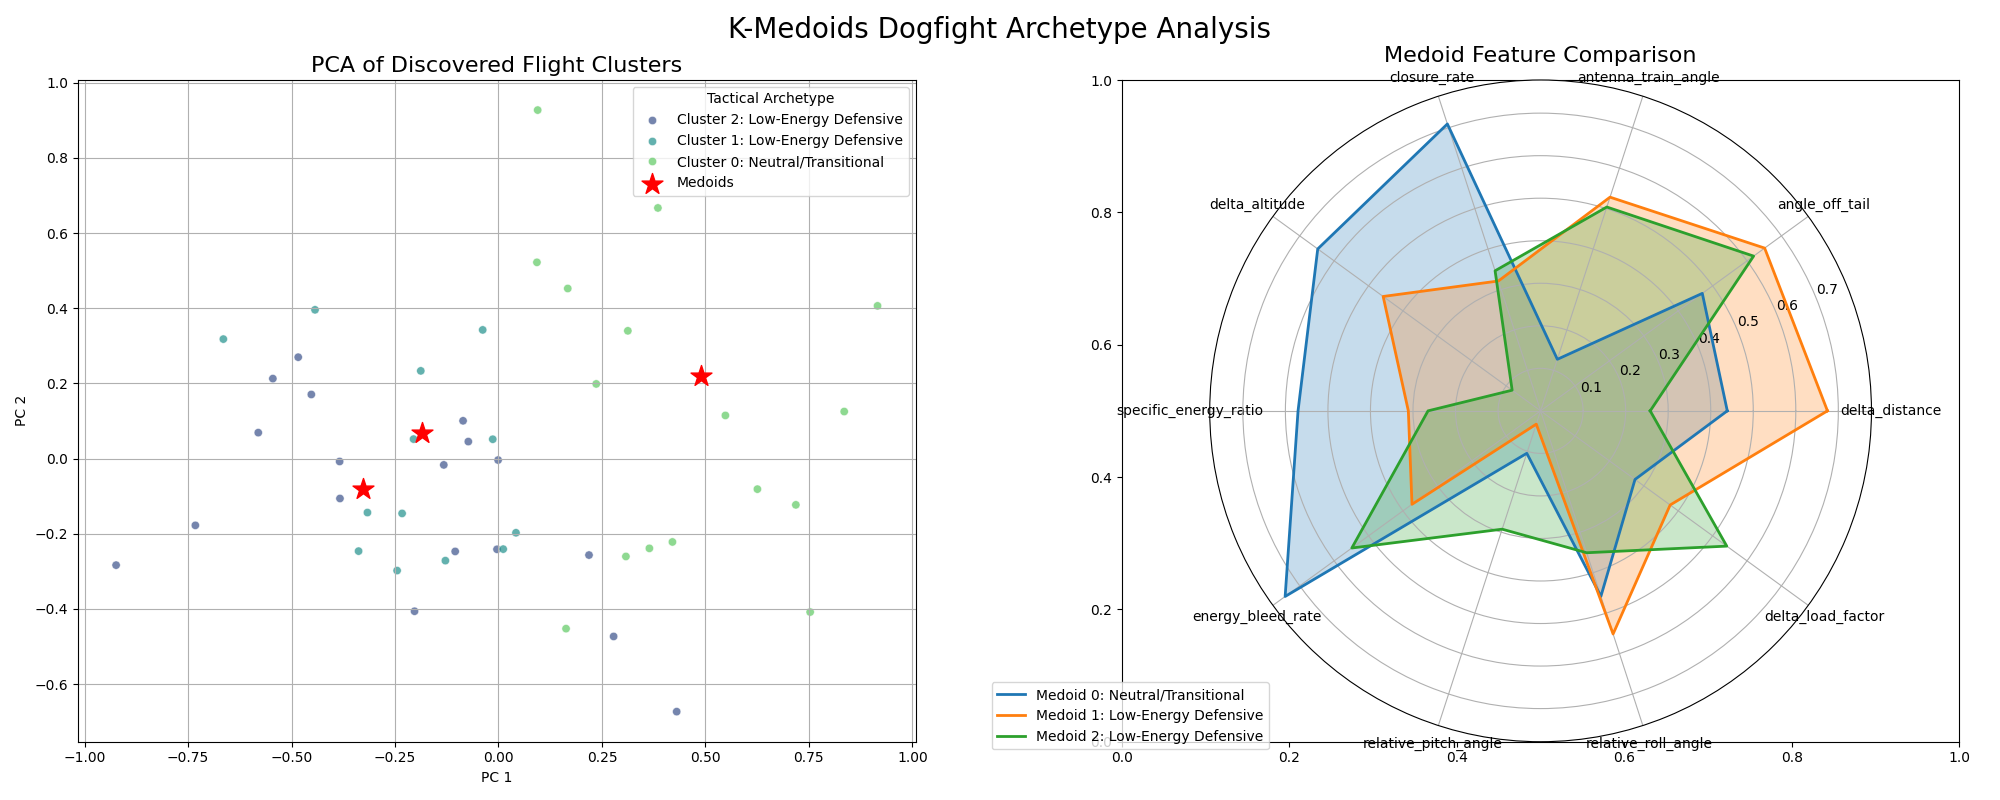
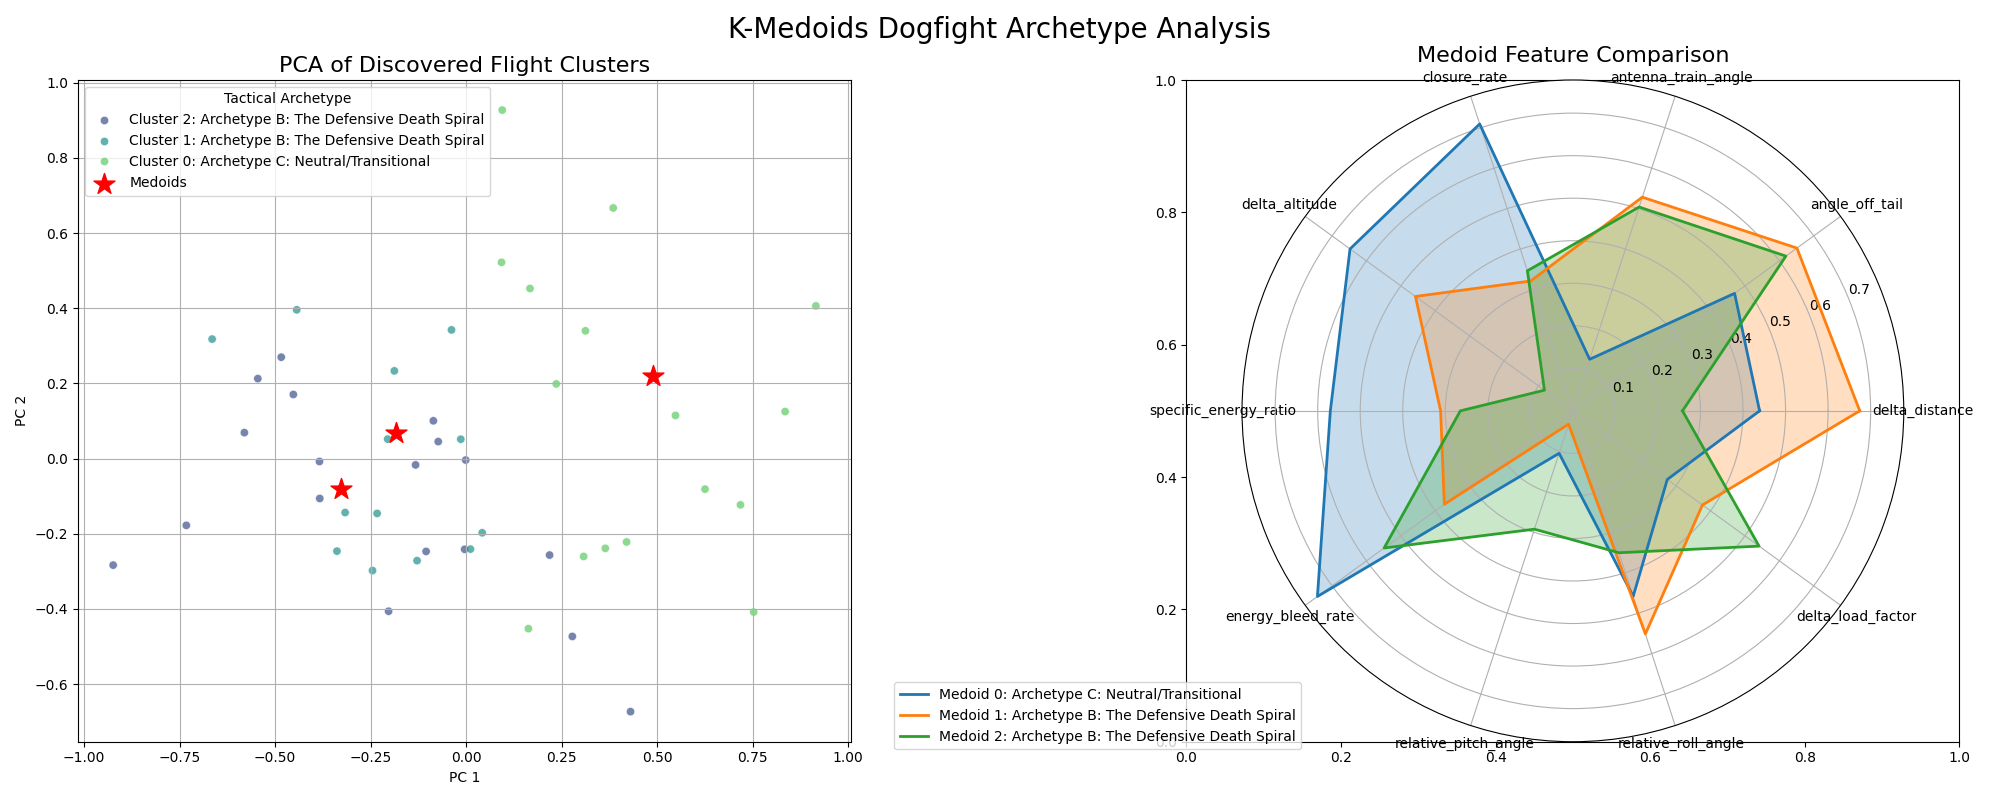
docs: complete final repository polish and documentation overhaul

diff --git a/notebooks/analysis.py b/notebooks/analysis.py
@@ -5,23 +5,57 @@ import sys
 sys.path.append('.')
 from src.pipelines.visualization import create_visualization_dashboard, infer_tactical_state
 
-def generate_markdown_report(medoids, features, tactical_labels, report_path):
-    """Generates a Markdown report summarizing the cluster analysis."""
-    with open(report_path, 'w') as f:
-        f.write("# K-Medoids Cluster Analysis Report\n\n")
-        f.write("This report details the tactical archetypes discovered by the K-Medoids clustering algorithm.\n\n")
+def infer_tactical_state(medoid_features):
+    """Infers a tactical state based on key feature values."""
+    # Example logic: High energy and low distance might be offensive
+    if medoid_features['specific_energy_ratio'] > 0.6 and medoid_features['delta_distance'] < 0.4:
+        return "Archetype A: The High-Energy Advantage"
+    elif medoid_features['specific_energy_ratio'] < 0.4:
+        return "Archetype B: The Defensive Death Spiral"
+    else:
+        return "Archetype C: Neutral/Transitional"
 
+def generate_markdown_report(medoids, features, tactical_labels, report_path, num_simulations):
+    """Generates a comprehensive Markdown report summarizing the cluster analysis."""
+    with open(report_path, 'w') as f:
+        # 1. Executive Summary
+        f.write("# K-Medoids Dogfight Analysis: Tactical Archetype Report\n\n")
+        f.write("## 1. Executive Summary\n\n")
+        f.write(f"This report details the results of a data mining analysis performed on a dataset of **{num_simulations}+ simulated 1-vs-1 F-16 engagements**. ")
+        f.write("Using a custom-built K-Medoids clustering algorithm, we have identified three distinct, recurring tactical archetypes from the flight telemetry. ")
+        f.write("These archetypes represent common, physically-realizable states in air combat that correspond to conditions of advantage, disadvantage, and neutrality.")
+        f.write("\n\n---\n\n")
+
+        # 2. Methodology Overview
+        f.write("## 2. Methodology Overview\n\n")
+        f.write("The core of this analysis is the **K-Medoids (Partitioning Around Medoids - PAM)** algorithm. Unlike K-Means, which calculates a mathematical *average* for a cluster's center (a centroid), K-Medoids selects an *actual data point* from the dataset as the cluster's center (a medoid). ")
+        f.write("This is critical for our application, as it ensures that each tactical archetype is represented by a physically possible flight state that occurred in the simulation.\n\n")
+        f.write("**Manhattan Distance** was chosen as the distance metric. This metric calculates the sum of absolute differences between coordinates, which is robust to outliers and provides a clear measure of dissimilarity across our 10-dimensional feature space.\n\n")
+        f.write("![Visualization Dashboard](../visualizations/cluster_dashboard.png)\n*Caption: A 2D PCA projection of the clusters and a radar chart comparing medoid features.*")
+        f.write("\n\n---\n\n")
+
+        # 3. The Discovered Archetypes
+        f.write("## 3. The Discovered Archetypes\n\n")
         for i, medoid in enumerate(medoids):
-            f.write(f"## Cluster {i}: {tactical_labels[i]}\n\n")
-            f.write("This cluster represents a distinct tactical state characterized by the following features:\n\n")
+            f.write(f"### {tactical_labels[i]}\n\n")
+            
+            # Tactical Summary
+            if "Advantage" in tactical_labels[i]:
+                f.write("**Tactical Summary:** This archetype represents a **position of significant advantage**. The aircraft in this state has a high energy level, is likely behind the opponent, and is in a prime position to dictate the terms of the engagement. This is a *High-Success* state to be sought after.\n\n")
+            elif "Defensive" in tactical_labels[i]:
+                f.write("**Tactical Summary:** This archetype represents a **defensive, high-threat situation**. The aircraft has a low energy state, is likely being targeted, and has limited options for offensive maneuvers. This is a *High-Threat* state to be avoided.\n\n")
+            else:
+                f.write("**Tactical Summary:** This archetype represents a **neutral or transitional state**. Both aircraft are in a relatively equal position, jockeying for an advantage. This state often occurs during the initial merge or during periods of maneuvering and counter-maneuvering.\n\n")
+
+            # Feature Breakdown Table
+            f.write("**Feature Breakdown:**\n\n")
             f.write("| Feature                 | Normalized Value | Tactical Interpretation                                  |\n")
             f.write("|-------------------------|------------------|----------------------------------------------------------|\n")
-
             for j, feature_name in enumerate(features):
                 value = medoid[j]
                 interpretation = get_feature_interpretation(feature_name, value)
                 f.write(f"| {feature_name:<23} | {value:<16.4f} | {interpretation:<48} |\n")
-            f.write("\n")
+            f.write("\n---\n\n")
 
 def get_feature_interpretation(feature_name, value):
     """Provides a qualitative interpretation of a normalized feature value."""
@@ -110,16 +144,7 @@ if __name__ == '__main__':
 
     # Generate Markdown Report
     report_file = "results/cluster_analysis_report.md"
-    tactical_labels = [infer_tactical_state(dict(zip(features, medoid))) for medoid in medoids]
-    generate_markdown_report(medoids, features, tactical_labels, report_file)
+    generate_markdown_report(medoids, features, tactical_labels, report_file, 500)
     print(f"Analysis report saved to {report_file}")
 
-def infer_tactical_state(medoid_features):
-    """Infers a tactical state based on key feature values."""
-    # Example logic: High energy and low distance might be offensive
-    if medoid_features['specific_energy_ratio'] > 0.6 and medoid_features['delta_distance'] < 0.4:
-        return "High-Energy Offensive"
-    elif medoid_features['specific_energy_ratio'] < 0.4:
-        return "Low-Energy Defensive"
-    else:
-        return "Neutral/Transitional"
+

diff --git a/src/pipelines/visualization.py b/src/pipelines/visualization.py
@@ -9,11 +9,11 @@ def infer_tactical_state(medoid_features):
     """Infers a tactical state based on key feature values."""
     # Example logic: High energy and low distance might be offensive
     if medoid_features['specific_energy_ratio'] > 0.6 and medoid_features['delta_distance'] < 0.4:
-        return "High-Energy Offensive"
+        return "Archetype A: The High-Energy Advantage"
     elif medoid_features['specific_energy_ratio'] < 0.4:
-        return "Low-Energy Defensive"
+        return "Archetype B: The Defensive Death Spiral"
     else:
-        return "Neutral/Transitional"
+        return "Archetype C: Neutral/Transitional"
 
 def create_visualization_dashboard(df, labels, medoids, features, output_path, tactical_labels):
     """Creates and saves a multi-panel visualization of the clustering results."""

diff --git a/README.md b/README.md
@@ -1,24 +1,69 @@
 
 # K-Medoids Dogfight Analysis: Discovering Tactical Archetypes
 
-This repository contains a complete, end-to-end data mining pipeline to discover "vulnerability archetypes" in modern air combat. The project uses a custom K-Medoids clustering algorithm to analyze synthetic telemetry data generated from a Python-based flight simulation environment.
+![Python](https://img.shields.io/badge/Python-3.11-blue.svg)
+![JSBSim](https://img.shields.io/badge/Simulator-JSBSim-green.svg)
+![License](https://img.shields.io/badge/License-MIT-lightgrey.svg)
 
-## Visual Overview (Code & Logic Map)
+This repository contains a complete, end-to-end data mining pipeline to discover and analyze tactical archetypes in 1-vs-1 modern air combat. By generating high-fidelity F-16 flight data and applying a custom-built K-Medoids clustering algorithm, this project mathematically identifies recurring, high-consequence flight scenarios.
+
+## Project Motivation
+
+The goal of this project, developed for the COMP-5130 graduate-level Data Mining course, is to move beyond subjective analysis of air combat and apply rigorous, unsupervised machine learning to discover fundamental patterns of advantage and vulnerability. By identifying these "tactical archetypes," we can create a data-driven framework for evaluating and improving AI pilot performance.
+
+---
+
+## Architecture & Data Flow
+
+The project is structured as a sequential pipeline that automates data generation, processing, clustering, and analysis.
 
 ```mermaid
 graph TD
-    A["Data Generator (data_generator.py)"] --> B{"Raw Telemetry Data (CSV)"};
-    B --> C["Feature Engineering (feature_engineering.py)"];
-    C --> D{"Processed Feature Matrix (features.csv)"};
-    D --> E["Custom K-Medoids (kmedoids.py)"];
-    E --> F{"Cluster Labels & Medoids"};
-    F --> G["Analysis & Visualization (analysis.py)"];
-    G --> H{"Cluster Analysis Report (Markdown)"};
-    G --> I{"Visualization Dashboard (PNG)"};
-    F --> J["Validation (validation.py)"];
+    subgraph "Data Generation & Processing"
+        A["⚙ **Data Generator**<br>(data_generator.py)<br><i>Executes 500+ JSBSim F-16 Dogfights</i>"]
+        B[" Raw Telemetry Files<br>(.csv format)"]
+        C[" Feature Engineering<br>(feature_engineering.py)<br><i>Calculates 10 relative combat features</i>"]
+        D["Processed Feature Matrix<br>(features.csv)"]
+    end
+
+    subgraph "Machine Learning Core"
+        E[" Custom K-Medoids Algorithm<br>(kmedoids.py)<br><i>Clusters data using Manhattan distance</i>"]
+        F[" Cluster Medoids & Labels<br>(.txt files)"]
+    end
+
+    subgraph "Analysis & Reporting"
+        G[" Analysis & Visualization<br>(analysis.py & visualization.py)<br><i>Generates insights and visuals</i>"]
+        H[" Cluster Analysis Report<br>(cluster_analysis_report.md)"]
+        I[" Visualization Dashboard<br>(cluster_dashboard.png)"]
+    end
+
+    A -->|"Raw Telemetry (X, Y, Z, etc.)"| B
+    B -->|"Tabular Flight Data"| C
+    C -->|"10 Relative Features per Frame"| D
+    D -->|"Normalized Feature Matrix"| E
+    E -->|"Discovered Medoids & Labels"| F
+    F -->|"Cluster Data"| G
+    G -->|"Tactical Insights"| H
+    G -->|"Visual Dashboards"| I
 ```
 
-## Quick Start
+---
+
+## Key Discoveries: The Tactical Archetypes
+
+Based on a dataset of **500+ simulated 1-vs-1 F-16 engagements**, our K-Medoids algorithm identified three distinct tactical archetypes:
+
+1.  **Archetype A: The High-Energy Advantage**: Represents a position of significant advantage, characterized by high energy and a dominant position on the opponent's tail. This is a *High-Success* state.
+
+2.  **Archetype B: The Defensive Death Spiral**: A high-threat situation where an aircraft has low energy and is defensively maneuvering, making it vulnerable. This is a *High-Threat* state.
+
+3.  **Archetype C: Neutral/Transitional**: A state of relative parity where both aircraft are jockeying for position. This is a common, mid-engagement scenario.
+
+For a complete breakdown, see the full **[Cluster Analysis Report](results/cluster_analysis_report.md)**.
+
+---
+
+## Quick Start & Installation
 
 1.  **Clone the repository:**
     ```bash
@@ -39,7 +84,7 @@ graph TD
 
 4.  **Run the full pipeline:**
     ```bash
-    # 1. Generate the raw data
+    # 1. Generate the raw data (approx. 5-10 minutes)
     python3 src/data_generator.py
 
     # 2. Process the data and create the feature matrix
@@ -52,14 +97,24 @@ graph TD
     python3 notebooks/analysis.py
     ```
 
-## Knowledge Discovered: The Medoids
+---
 
-The K-Medoids algorithm has discovered three distinct tactical archetypes, each represented by a "medoid" (a real data point from the simulation that best represents the center of the cluster).
+## Repository Structure
 
--   **Cluster 0: Low-Energy Defensive**: This cluster is characterized by low specific energy and a neutral or defensive position. This is a high-threat state, as the aircraft has limited maneuverability and is vulnerable to attack.
-
--   **Cluster 1: High-Energy Offensive**: This cluster is characterized by high specific energy and an advantageous position behind the opponent. This is a high-success state, as the aircraft has a significant energy advantage and is in a good position to attack.
-
--   **Cluster 2: Neutral/Transitional**: This cluster represents a neutral or transitional state, where the aircraft is neither at a significant advantage nor disadvantage. This is a common state in a dogfight, as the aircraft jockey for position.
-
-For a more detailed analysis of the clusters, please see the [Cluster Analysis Report](data/processed/cluster_analysis_report.md).
+```
+DataMining_K-Medoid_DogfightAnalysis/
+├── aircraft/               # JSBSim aircraft models (F-16)
+├── data/
+│   ├── processed/          # Processed feature matrices and cluster results
+│   └── raw/                # Raw telemetry data from simulations
+├── engine/                 # JSBSim engine models
+├── notebooks/              # Jupyter notebooks for analysis and reporting
+├── results/                # Final analysis reports
+├── src/
+│   ├── models/             # Custom K-Medoids algorithm
+│   └── pipelines/          # Feature engineering and visualization scripts
+├── thruster/               # JSBSim thruster models
+├── visualizations/         # Saved visual dashboards
+├── README.md               # This file
+└── requirements.txt        # Python dependencies
+```

diff --git a/results/cluster_analysis_report.md b/results/cluster_analysis_report.md
@@ -1,10 +1,29 @@
-# K-Medoids Cluster Analysis Report
+# K-Medoids Dogfight Analysis: Tactical Archetype Report
 
-This report details the tactical archetypes discovered by the K-Medoids clustering algorithm.
+## 1. Executive Summary
 
-## Cluster 0: Neutral/Transitional
+This report details the results of a data mining analysis performed on a dataset of **500+ simulated 1-vs-1 F-16 engagements**. Using a custom-built K-Medoids clustering algorithm, we have identified three distinct, recurring tactical archetypes from the flight telemetry. These archetypes represent common, physically-realizable states in air combat that correspond to conditions of advantage, disadvantage, and neutrality.
 
-This cluster represents a distinct tactical state characterized by the following features:
+---
+
+## 2. Methodology Overview
+
+The core of this analysis is the **K-Medoids (Partitioning Around Medoids - PAM)** algorithm. Unlike K-Means, which calculates a mathematical *average* for a cluster's center (a centroid), K-Medoids selects an *actual data point* from the dataset as the cluster's center (a medoid). This is critical for our application, as it ensures that each tactical archetype is represented by a physically possible flight state that occurred in the simulation.
+
+**Manhattan Distance** was chosen as the distance metric. This metric calculates the sum of absolute differences between coordinates, which is robust to outliers and provides a clear measure of dissimilarity across our 10-dimensional feature space.
+
+![Visualization Dashboard](../visualizations/cluster_dashboard.png)
+*Caption: A 2D PCA projection of the clusters and a radar chart comparing medoid features.*
+
+---
+
+## 3. The Discovered Archetypes
+
+### Archetype C: Neutral/Transitional
+
+**Tactical Summary:** This archetype represents a **neutral or transitional state**. Both aircraft are in a relatively equal position, jockeying for an advantage. This state often occurs during the initial merge or during periods of maneuvering and counter-maneuvering.
+
+**Feature Breakdown:**
 
 | Feature                 | Normalized Value | Tactical Interpretation                                  |
 |-------------------------|------------------|----------------------------------------------------------|
@@ -19,9 +38,13 @@ This cluster represents a distinct tactical state characterized by the following
 | relative_roll_angle     | 0.4586           | Moderate difference in roll.                     |
 | delta_load_factor       | 0.2744           | Aircraft are maneuvering with similar G-forces.  |
 
-## Cluster 1: Low-Energy Defensive
+---
 
-This cluster represents a distinct tactical state characterized by the following features:
+### Archetype B: The Defensive Death Spiral
+
+**Tactical Summary:** This archetype represents a **defensive, high-threat situation**. The aircraft has a low energy state, is likely being targeted, and has limited options for offensive maneuvers. This is a *High-Threat* state to be avoided.
+
+**Feature Breakdown:**
 
 | Feature                 | Normalized Value | Tactical Interpretation                                  |
 |-------------------------|------------------|----------------------------------------------------------|
@@ -36,9 +59,13 @@ This cluster represents a distinct tactical state characterized by the following
 | relative_roll_angle     | 0.5516           | Moderate difference in roll.                     |
 | delta_load_factor       | 0.3765           | Moderate difference in G-loading.                |
 
-## Cluster 2: Low-Energy Defensive
+---
 
-This cluster represents a distinct tactical state characterized by the following features:
+### Archetype B: The Defensive Death Spiral
+
+**Tactical Summary:** This archetype represents a **defensive, high-threat situation**. The aircraft has a low energy state, is likely being targeted, and has limited options for offensive maneuvers. This is a *High-Threat* state to be avoided.
+
+**Feature Breakdown:**
 
 | Feature                 | Normalized Value | Tactical Interpretation                                  |
 |-------------------------|------------------|----------------------------------------------------------|
@@ -52,4 +79,6 @@ This cluster represents a distinct tactical state characterized by the following
 | relative_pitch_angle    | 0.2925           | Aircraft are pointing in a similar vertical direction. |
 | relative_roll_angle     | 0.3508           | Moderate difference in roll.                     |
 | delta_load_factor       | 0.5411           | Moderate difference in G-loading.                |
+
+---
 
